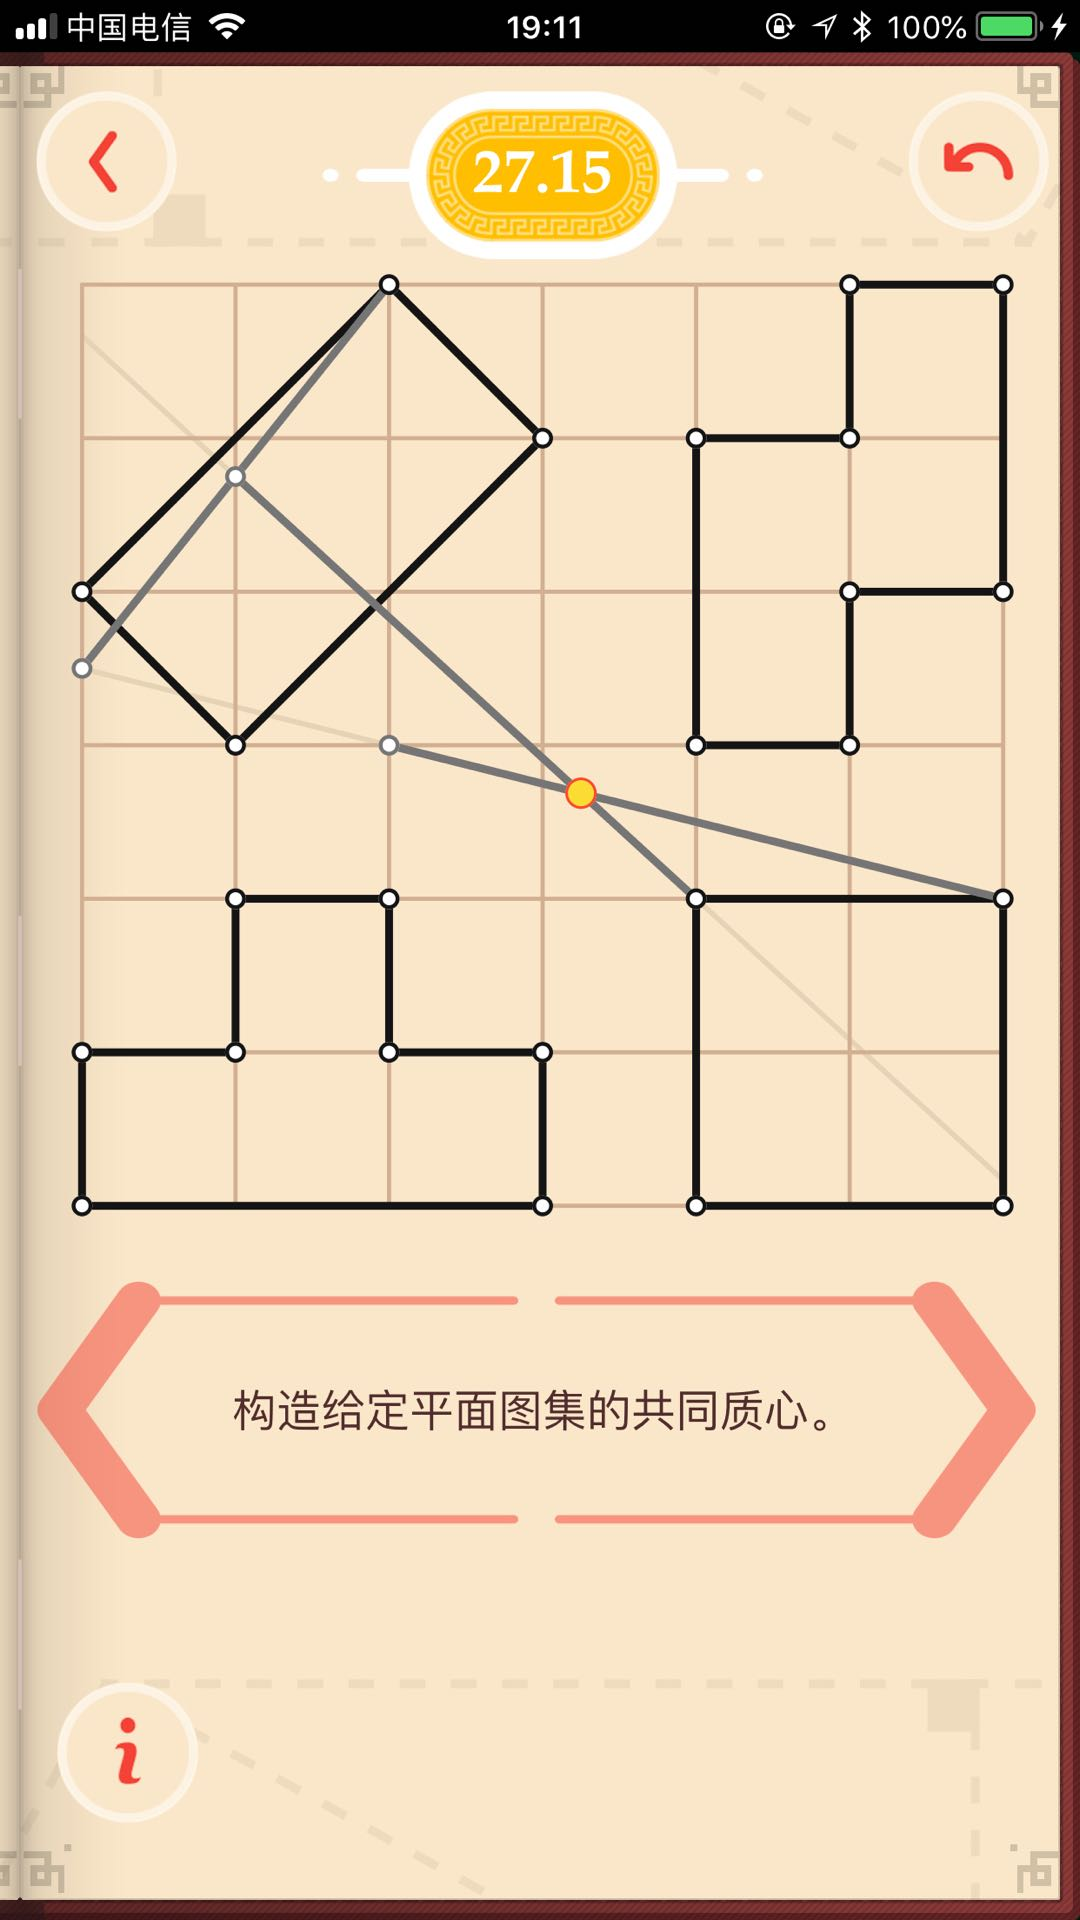
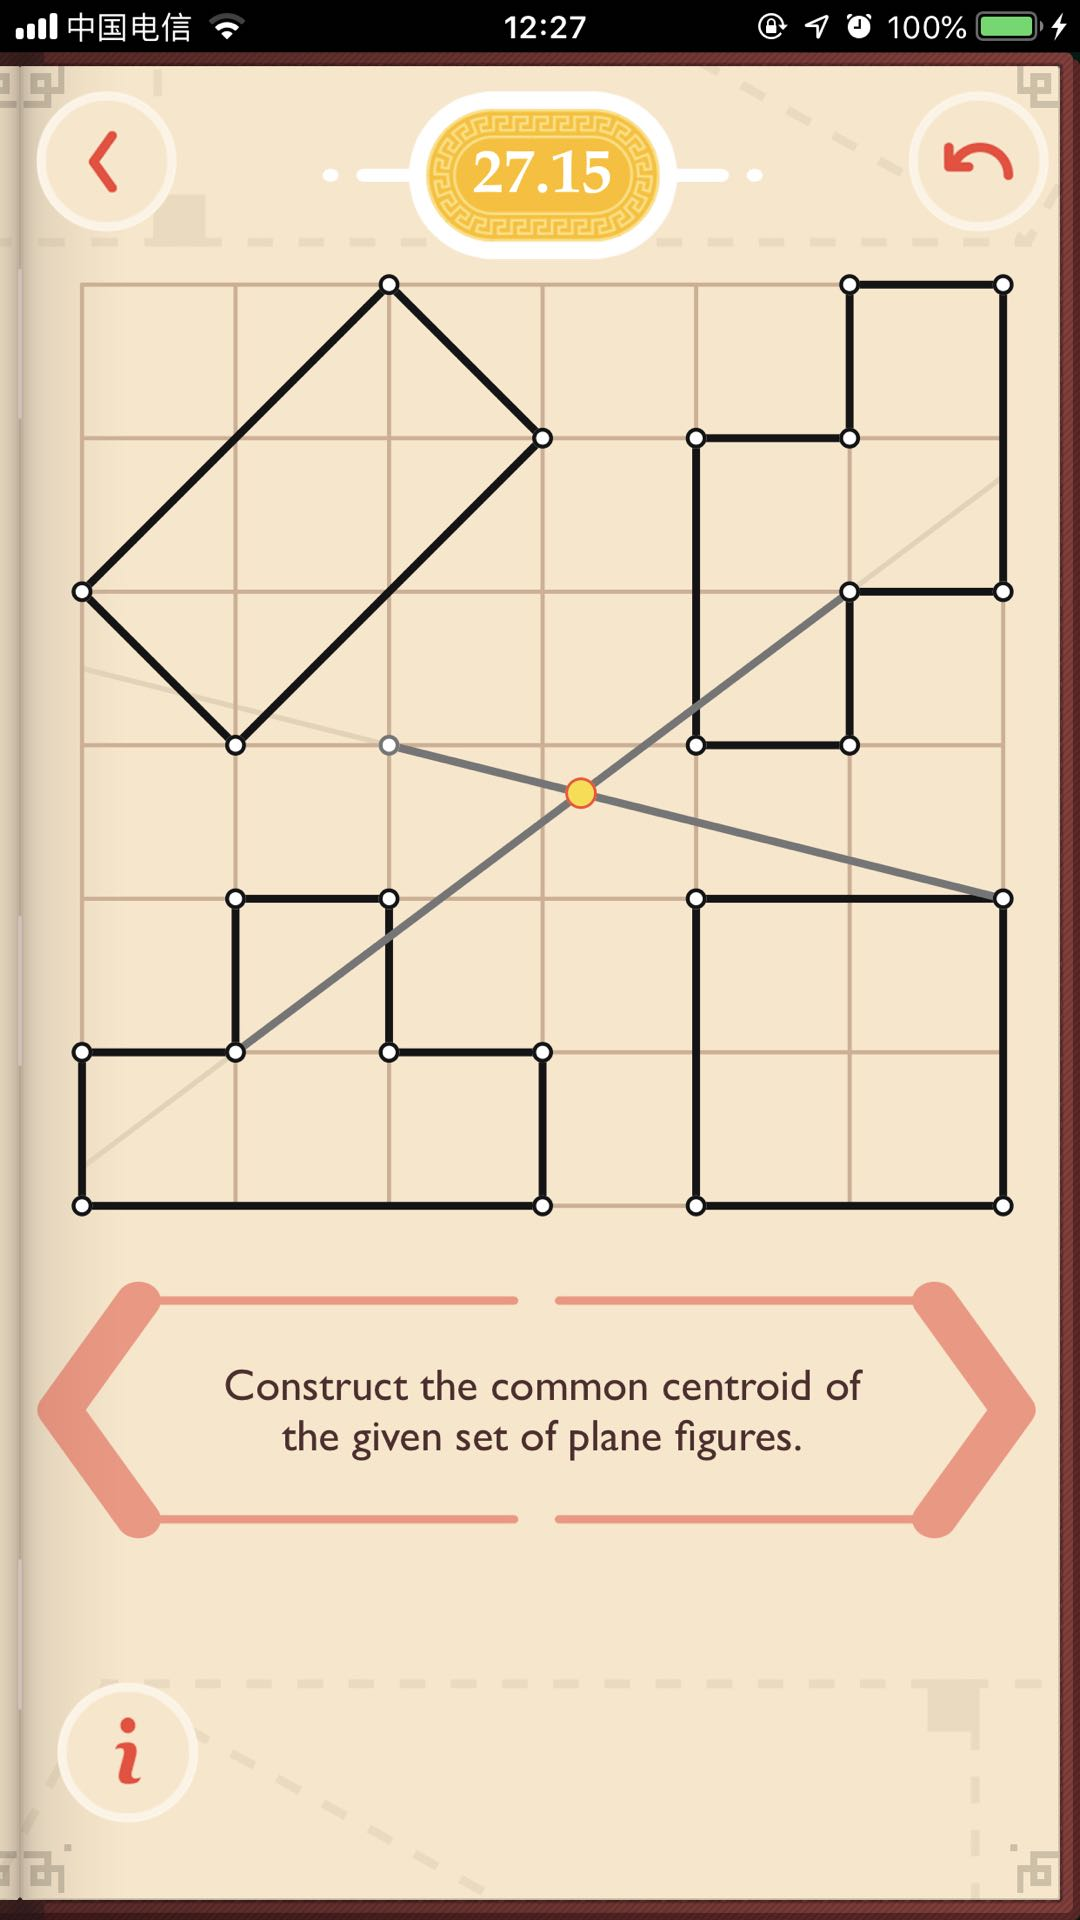
finding the Solution for the question 27-14 and 27-15.
.

diff --git a/main.py b/main.py
@@ -47,19 +47,76 @@ def question_22_17(query):
     resolution_product = itertools.product(resolution_vertex_in_edge_a,
                                            resolution_vertex_in_edge_b,
                                            resolution_vertex_in_edge_c)
-    resolution_for_all = [frozenset((set(r[0]) | set(r[1]) | set(r[2])) - TriangleEdges) for r in resolution_product]
-    resolution_for_all.sort()
+    solution_for_all = [frozenset((set(r[0]) | set(r[1]) | set(r[2])) - TriangleEdges) for r in resolution_product]
+    solution_for_all.sort()
 
     init_figure, grid_size = common.INIT_FIGURE(), common.GRID_SIZE()
     init_figure.extend(TriangleEdges)
     targets = (VertexOfTargetRhombusInsideEdgeA, VertexOfTargetRhombusInsideEdgeB, VertexOfTargetRhombusInsideEdgeC)
-    for r in resolution_for_all:
+    for r in solution_for_all:
         draw_resolution(r, targets, init_figure, grid_size)
+
+
+# grid_mask is a boolean sequence of top-left, top-right, bottom-left, bottom-right
+def centroid_of_2x2_grid(center_x, center_y, grid_mask):
+    one_half = Fraction(1, 2)
+    count = 0
+    sum_x = sum_y = Fraction(0)
+    deta_grid_coord = (-one_half, +one_half), (+one_half, +one_half), (-one_half, -one_half), (one_half, -one_half)
+    for grid_value, deta in zip(grid_mask, deta_grid_coord):
+        if grid_value:
+            count += 1
+            sum_x += center_x + deta[0]
+            sum_y += center_y + deta[1]
+    return sum_x / count, sum_y / count, count
+
+
+def centroid_of_iter(it):
+    sum_weight = 0
+    sum_x = sum_y = Fraction(0)
+    for x, y, weight in it:
+        sum_x += x * weight
+        sum_y += y * weight
+        sum_weight += weight
+    return sum_x / sum_weight, sum_y / sum_weight, sum_weight
+
+
+def question_27_14(query):
+    total = []
+    total.append(centroid_of_2x2_grid(-2, +2, (True, True, True, False)))
+    total.append(centroid_of_2x2_grid(+2, +2, (True, True, False, True)))
+    total.append(centroid_of_2x2_grid(-2, -2, (True, False, True, True)))
+    total.append(centroid_of_2x2_grid(+2, -2, (True, True, True, False)))
+    x, y, w = centroid_of_iter(total)
+    point_target = Point(x, y, "Target")
+    solution = query.query_point_by_symmetry(point_target)
+    init_figure, grid_size = common.INIT_FIGURE(), common.GRID_SIZE()
+    for r in solution:
+        draw_resolution(r, [point_target], init_figure, grid_size)
+
+
+def question_27_15(query):
+    total = []
+    total.append((Fraction(-1.5), Fraction(1.5), 4))  # top-left
+    total.append((2, Fraction(1.5), 4))  # top-right
+
+    total.append((centroid_of_2x2_grid(-2, -2, (False, True, True, True))))  # bottom-left -very left
+    total.append((centroid_of_2x2_grid(0, -2, (False, False, True, False))))  # bottom-left -right part
+
+    total.append((2, -2, 4))  # bottom-right
+    x, y, w = centroid_of_iter(total)
+    point_target = Point(x, y, "Target")
+    solution = query.query_point_by_symmetry(point_target)
+    init_figure, grid_size = common.INIT_FIGURE(), common.GRID_SIZE()
+    for r in solution:
+        draw_resolution(r, [point_target], init_figure, grid_size)
 
 
 def main():
     db_query = get_query_obj()
-    question_22_17(db_query)
+    # question_22_17(db_query)
+    # question_27_14(db_query)
+    question_27_15(db_query)
 
 
 if __name__ == '__main__':
